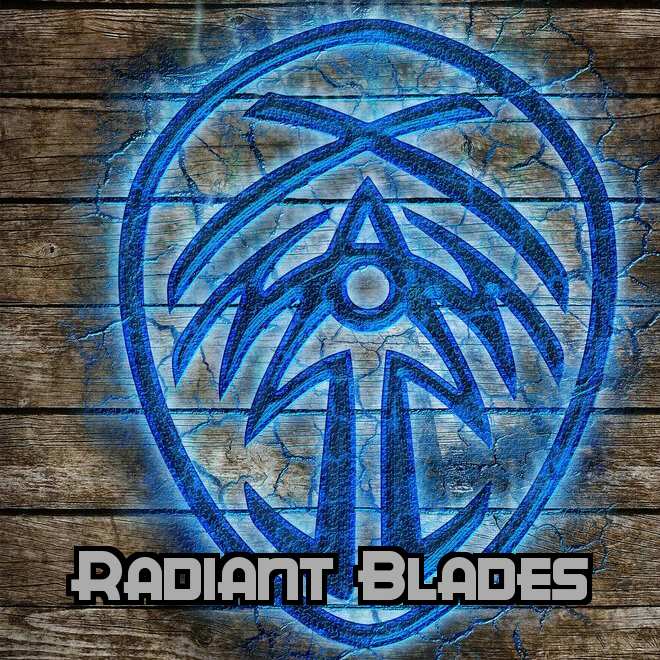
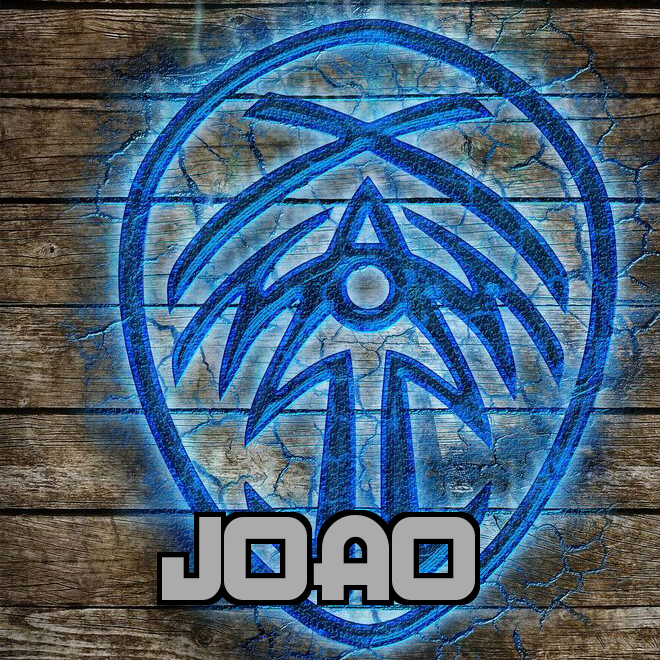
Added input delay and font size slider!

Changed region(s): [[0.0909, 0.7576, 0.9091, 0.9394]]

diff --git a/index.php b/index.php
@@ -38,11 +38,11 @@
 			</tr>
 			<tr>
 				<td><label for="text_color">Text Color</label></td>
-				<td><input id="text_color" class="jscolor {onFineChange:'update(this, false, false, false)'}" value="ABABAB"></td>
+				<td><input id="text_color" class="jscolor" value="ABABAB"></td>
 			</tr>
 			<tr>
 				<td><label for="stroke_color">Stroke Color</label></td>
-				<td><input id="stroke_color" class="jscolor {onFineChange:'update(false, this, false, false)'}" value="000000"></td>
+				<td><input id="stroke_color" class="jscolor" value="000000"></td>
 			</tr>
 			<tr>
 				<td>
@@ -58,6 +58,13 @@
 				</td>
 				<td><div id="x_axis_slider-range-min" style="width: 150px"></div></td>
 			</tr>
+			<tr>
+				<td>
+					<label for="font_size">Font Size</label>
+					<p><input type="text" id="font_amount" value="100" style="display: none; border: 0; color: #f6931f; font-weight: bold;" /></p>
+				</td>
+				<td><div id="font_slider-range-min" style="width: 150px"></div></td>
+			</tr>
 		</table>
 	</form>
 	<button  id="default_button"  class="stop-button full-width">Default</button>
@@ -70,17 +77,36 @@
 
 <script type="text/javascript">
 
-	jQuery('#name_text_input').on( "keyup", function() {
-		update(false, false, false, false);
+	var input_delay_generate_time = 500;
+	$('#name_text_input').keyup(function() {
+		delay(function(){
+			update(false, false, false, false, false);
+		}, input_delay_generate_time );
 	});
 
-	jQuery('#name_text_input').change( function() {
-		update(false, false, false, false);
+	$('#text_color').change(function() {
+		delay(function(){
+			update($('#text_color').val(), false, false, false, false);
+		}, input_delay_generate_time );
+	});
+
+	$('#stroke_color').change(function() {
+		delay(function(){
+			update(false, $('#stroke_color').val(), false, false, false);
+		}, input_delay_generate_time );
 	});
 
 	jQuery('#default_button').click( "keyup", function() {
 		set_values_default();
 	});
+
+	var delay = (function(){
+		var timer = 0;
+		return function(callback, ms){
+			clearTimeout (timer);
+			timer = setTimeout(callback, ms);
+		};
+	})();
 
 	function set_values_default() {
 		$('#text_color').val('ABABAB');
@@ -93,11 +119,12 @@
 
 		$("#stroke_amount").val('5');
 		$("#x_axis_amount").val('160');
+		$("#font_amount").val('100');
 
-		update(false, false, false, false);
+		update(false, false, false, false, false);
 	}
 
-	function update(textColor, strokeColor, strokeSize, xAxis) {
+	function update(textColor, strokeColor, strokeSize, xAxis, fontSize) {
 		    var name_text = $('#name_text_input').val();
 
 		    var text_color = '#' + $('#text_color').val();
@@ -120,11 +147,19 @@
 			    var x_axis_size = xAxis;
 			}
 
+		    var font_amount = $('#font_amount').val();
+			if ( false != fontSize ) {
+			    var font_amount = fontSize;
+			}
+
 			console.log( "name_text: ", name_text);
 			console.log( "stroke_color: ", stroke_color);
 			console.log( "text_color: ", text_color);
 			console.log( "stroke_size: ", stroke_size);
 			console.log( "x_axis_size: ", x_axis_size);
+			console.log( "font_amount: ", font_amount);
+
+
 
 			$.ajax({
 				type: "POST",
@@ -134,7 +169,8 @@
 					'stroke_color': stroke_color,
 					'text_color': text_color,
 					'stroke_size': stroke_size,
-					'x_axis_size': x_axis_size
+					'x_axis_size': x_axis_size,
+					'font_amount': font_amount
 					},
 				success: function (result) {
 					console.log( "result: ", result);
@@ -160,7 +196,9 @@
 
             $("#stroke_amount").val(ui.value);
             console.log('Slider: ',  $("#stroke_amount").val());
-        	update(false, false, ui.value, false);
+            delay(function(){
+	        	update(false, false, ui.value, false, false);
+            }, input_delay_generate_time );
 
             if (ui.value == 0) {
                 $("#stroke_slider-range-min").slider('value', 1);
@@ -179,15 +217,17 @@
 	$("#x_axis_slider-range-min").slider({
         range: "min",
         value: 60,
-        min: 20,
+        min: 0,
         step: 10,
-        max: 250,
+        max: 450,
         slide: function (event, ui) {
 
             $("#x_axis_amount").val(ui.value);
 
             console.log('Slider: ',  $("#x_axis_amount").val());
-        	update(false, false, false, ui.value);
+            delay(function(){
+	        	update(false, false, false, ui.value, false);
+            }, input_delay_generate_time );
 
             if (ui.value == 0) {
                 $("#x_axis_slider-range-min").slider('value', 1);
@@ -201,5 +241,34 @@
         }
     });
     $("#x_axis_amount").val($("#x_axis_slider-range-min").slider("value"));
+
+    // Font size slider
+	$("#font_slider-range-min").slider({
+        range: "min",
+        value: 100,
+        min: 20,
+        step: 10,
+        max: 250,
+        slide: function (event, ui) {
+
+            $("#font_amount").val(ui.value);
+
+            console.log('Slider: ',  $("#font_amount").val());
+            delay(function(){
+	        	update(false, false, false, false, ui.value);
+            }, input_delay_generate_time );
+
+            if (ui.value == 0) {
+                $("#font_slider-range-min").slider('value', 1);
+                $("#font_amount").val('1');
+            }
+        },
+        stop: function (event, ui) {
+            if (ui.value == 0) {
+                $("#font_amount").val('1');
+            }
+        }
+    });
+    $("#font_amount").val($("#font_slider-range-min").slider("value"));
 
 </script>

diff --git a/generate_image.php b/generate_image.php
@@ -21,26 +21,7 @@ $stroke_color = imagecolorallocate($png_image, $stroke_color['r'], $stroke_color
 
 $stroke_size = $_POST['stroke_size'];
 
-$strlen_to_font_size = array(
-	1 => 140,
-	2 => 140,
-	3 => 140,
-	4 => 120,
-	5 => 120,
-	6 => 100,
-	7 => 95,
-	8 => 81,
-	9 => 873,
-	10 => 69,
-	11 => 67,
-	12 => 60,
-	13 => 59,
-	14 => 50,
-	15 => 41,
-	16 => 30,
-	);
-
-$font_size = $strlen_to_font_size[strlen($text)];
+$font_size = $_POST['font_amount'];
 
 // place some text (top, left)
 imagettfstroketext($png_image, $font_size, 0, $_POST['x_axis_size'], 600, $text_color, $stroke_color, $font_path, $text, $stroke_size);
